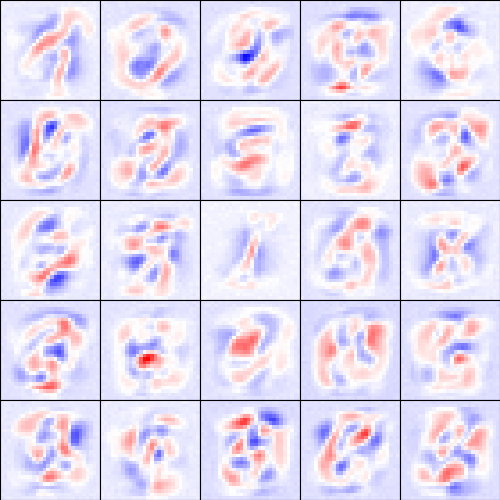
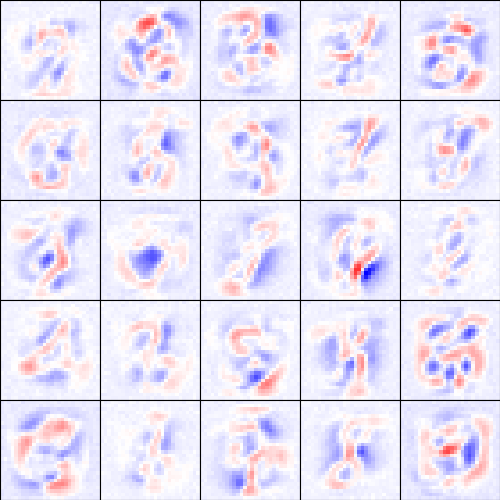
p1 finished

diff --git a/lab4_code/rbm.py b/lab4_code/rbm.py
@@ -60,7 +60,7 @@ class RestrictedBoltzmannMachine():
             "period" : 7500, # iteration period to visualize
             "grid" : [5,5], # size of the grid
             "ids" : np.random.randint(0,self.ndim_hidden,25) # pick some random hidden units
-            }
+        }
         
         return
 
@@ -109,6 +109,7 @@ class RestrictedBoltzmannMachine():
             
             if (it % self.rf["period"] == 0 or it == n_iterations - 1)and self.is_bottom:
                 viz_rf(weights=self.weight_vh[:,self.rf["ids"]].reshape((self.image_size[0],self.image_size[1],-1)), it=it, grid=self.rf["grid"])
+                # selects the weights of 25 random hidden units and plots the respective magnitude of weights
 
             # print progress
             
@@ -121,8 +122,15 @@ class RestrictedBoltzmannMachine():
                 print ("iteration=%7d recon_loss=%4.4f"%(it, np.linalg.norm(v_1_prob - visible_trainset)))
 
         
+
         return
     
+
+    def reconstruct(self, sample):
+        h_0_prob, h_0_bin = self.get_h_given_v(sample)
+        v_1_prob, v_1_bin = self.get_v_given_h(h_0_bin)
+        return v_1_prob
+
 
     def update_params(self,v_0,h_0,v_k,h_k):
 

diff --git a/lab4_code/util.py b/lab4_code/util.py
@@ -99,7 +99,7 @@ def read_mnist(dim=[28,28],n_train=60000,n_test=1000):
 
     return train_imgs[:n_train],train_lbls_1hot[:n_train],test_imgs[:n_test],test_lbls_1hot[:n_test]
 
-def viz_rf(weights,it,grid):
+def viz_rf(weights, it, grid):
 
     """
     Visualize receptive fields and save 
@@ -122,3 +122,15 @@ def stitch_video(fig,imgs):
     import matplotlib.animation as animation
     
     return animation.ArtistAnimation(fig, imgs, interval=100, blit=True, repeat=False)    
+
+def visualize_image(encoded_image):
+    if len(encoded_image) != 784:
+        raise ValueError("The input vector must have 784 elements to represent a 24x24 image.")
+    
+    # Reshape the 784-sized vector into a 24x24 matrix
+    image_matrix = np.reshape(encoded_image, (28, 28))
+
+    # Display the image using matplotlib
+    plt.imshow(image_matrix, cmap='gray')
+    plt.axis('off')  # Hide axis ticks and labels
+    plt.show()

diff --git a/lab4_code/run_1.py b/lab4_code/run_1.py
@@ -12,7 +12,7 @@ if __name__ == "__main__":
     print ("\nStarting a Restricted Boltzmann Machine..")
 
     rbm = RestrictedBoltzmannMachine(ndim_visible=image_size[0]*image_size[1],
-                                     ndim_hidden=200,
+                                     ndim_hidden=500,
                                      is_bottom=True,
                                      image_size=image_size,
                                      is_top=False,
@@ -21,4 +21,10 @@ if __name__ == "__main__":
     )
     
     rbm.cd1(visible_trainset=train_imgs, n_iterations=10000)
+
+    print("Predicting for sample x.")
+    visualize_image(test_imgs[99])
+
+    print("Prediction in y")
+    visualize_image(rbm.reconstruct(test_imgs[99]))
     
